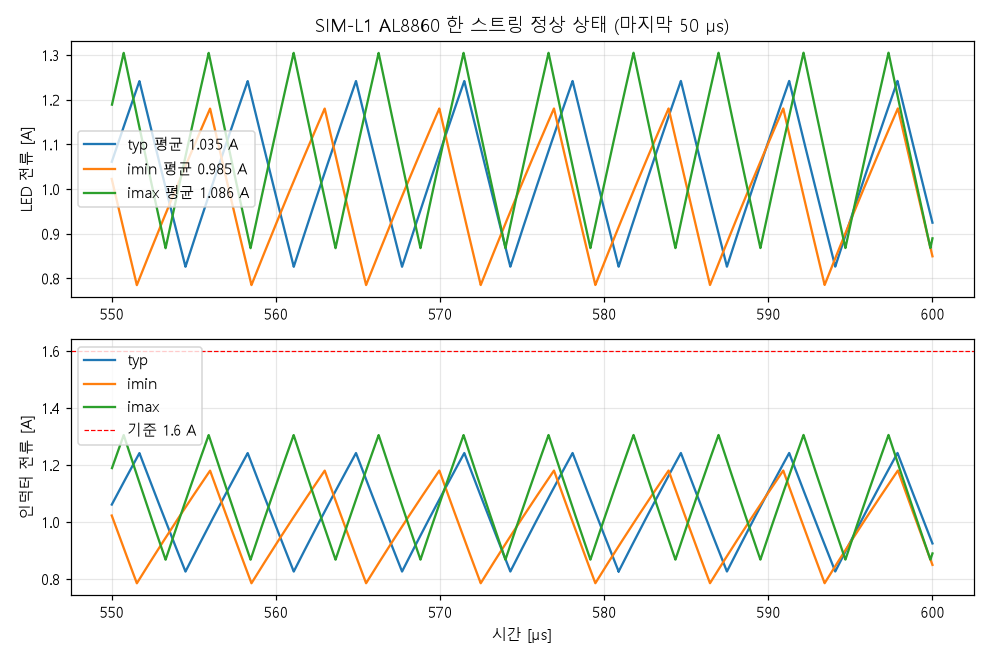
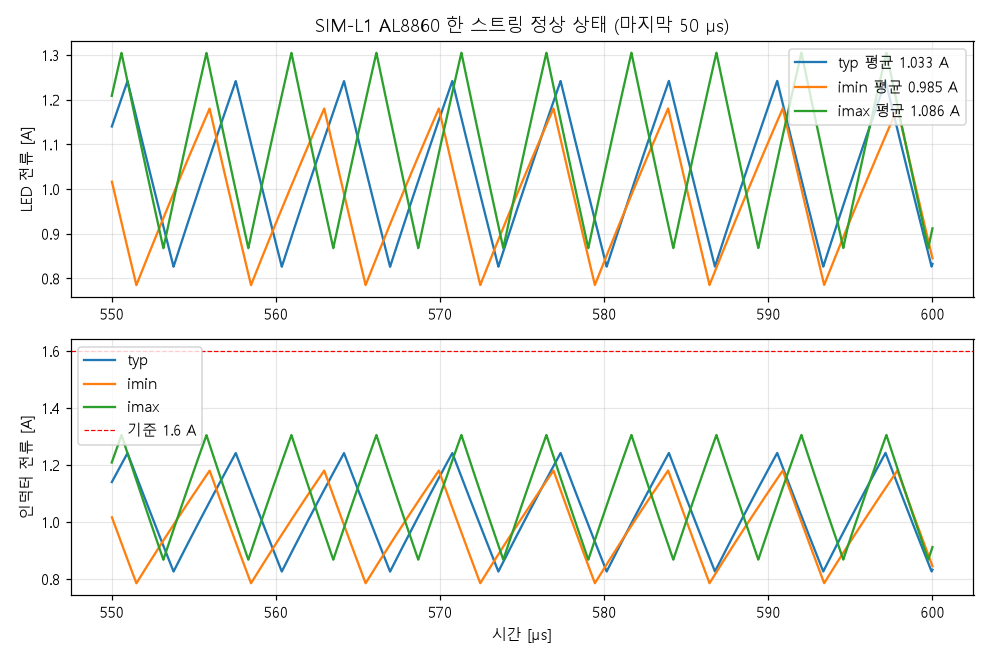
SIM-001f C-021(613cf14) 정식 재실행 종료 0: SIM-L1~L10 전부 pass (L3 끔 구간 1.44µA), R22·R23 블리더를 넷리스트 고정 소자로·SIM_IR_BLEEDER 제거

Changed region(s): [[0.0606, 0.0606, 1.0, 0.4545], [0.0909, 0.5152, 1.0, 0.9091]]

diff --git a/hardware/sim/sim001b/run.py b/hardware/sim/sim001b/run.py
@@ -24,9 +24,8 @@ HERE = os.path.dirname(os.path.abspath(__file__))
 SIM = os.path.dirname(HERE)
 REPO = os.path.dirname(os.path.dirname(SIM))
 NG = os.environ.get("NGSPICE", "C:/Users/gh/tools/ngspice/47/Spice64/bin/ngspice_con.exe")
-IR_BLEEDER = os.environ.get("SIM_IR_BLEEDER", "")   # SIM-001e 후보 c1 확인용 — 비우면 회로도 그대로
 CRITERIA_COMMIT = "7cab389"
-SCH_COMMIT = "a2d878c"   # C-020 (S6): 전면 R20 100k·R21 1k·D4 BAT54WS, R5 100k·D5 BAT54WS (+ C-018/C-019: R6 6.04k, R17 4.7k·C19 4.7nF, C20·C21 4.7nF)
+SCH_COMMIT = "613cf14"   # C-021 (O-99): 전면 R22·R23 10k LED 양단 블리더 + C-020 (S6): R20 100k·R21 1k·D4 BAT54WS, R5 100k·D5 BAT54WS (+ C-018/C-019: R6 6.04k, R17 4.7k·C19 4.7nF, C20·C21 4.7nF)
 ILIM = 1.86   # TPS26600 R6 6.04 kΩ: I(OL) 최소 1.86 A (대표 ≈1.99 A, 계약 v1.14 3.1절 L108) — "시험 회로의 ILIM"을 보수적으로 최솟값으로
 ILIM_OLD = 1.49   # 7cab389 작성 때 회로(R6 8.06 kΩ)의 숫자 — 비교로만 적는다
 plt.rcParams["font.family"] = ["Malgun Gothic", "DejaVu Sans"]
@@ -183,6 +182,7 @@ def string(k, rs, L, dcr, ledm):
     return f"""
 R{13 if k == 'A' else 14} v12 set{k} {rs}
 D{k}1 set{k} m{k} {ledm}
+R{22 if k == 'A' else 23} set{k} k{k} 10k
 D{k}2 m{k} k{k} {ledm}
 Vil{k} k{k} li{k} 0
 L{k} li{k} lx{k} {L}
@@ -212,8 +212,6 @@ def ir_body(corner, strings=("A",), ctrl="open"):
     b = f"Vin vs 0 {vin}\nRsrc vs v12 10m\n" + led_model("led", vf1) + SS24
     for k in strings:
         b += al8860(f"al_{k}", vm, 0.3) + string(k, rs, L, 0.24 if corner != "typ" else 0.2, "led")
-        if IR_BLEEDER:   # SIM-001e 확인용(판정용 아님): LED 스트링 양단 블리더 (환경 변수 SIM_IR_BLEEDER, 예 10k)
-            b += f"Rbl{k} set{k} k{k} {IR_BLEEDER}\n"
     if ctrl == "open":
         b += "Rctrl ctrl 0 1g\n"
     else:
@@ -285,7 +283,7 @@ def b1():
     ax[1].axhline(1.6, color="r", ls="--", lw=.8, label="기준 1.6 A"); ax[1].set_ylabel("인덕터 전류 [A]"); ax[1].set_xlabel("시간 [µs]"); ax[1].legend(); ax[1].grid(alpha=.3)
     ax[0].set_title("SIM-L1 AL8860 한 스트링 정상 상태 (마지막 50 µs)")
     fig.tight_layout(); fig.savefig(png, dpi=110); plt.close(fig)
-    return dict(id="SIM-L1", title="AL8860 한 스트링 LED 전류·리플·주파수", refs=["U4", "R13", "L1", "D1", "D_IR_A1", "D_IR_A2", "C14", "C15"],
+    return dict(id="SIM-L1", title="AL8860 한 스트링 LED 전류·리플·주파수", refs=["U4", "R13", "R22", "L1", "D1", "D_IR_A1", "D_IR_A2", "C14", "C15"],
                 checks=checks, png=[png], net="SIM-L1.cir", notes=notes,
                 model=dict(source="데이터시트 동작 모델 (AL8860 히스테리시스·소프트스타트·CTRL, VSMA·SS24 다이오드 맞춤)",
                            url="https://www.diodes.com/assets/Datasheets/AL8860.pdf", license="—", behavioral=True,
@@ -318,7 +316,7 @@ def b2():
     ax.set_xlabel("시간 [ms]"); ax.set_ylabel("12V_IR 입력 전류 [A]"); ax.legend(); ax.grid(alpha=.3)
     ax.set_title("SIM-L2 스트링 A+B 동시 100 % — 12V_IR 입력 전류 (입력 캡 C14·C16 포함)")
     fig.tight_layout(); fig.savefig(png, dpi=110); plt.close(fig)
-    return dict(id="SIM-L2", title="스트링 A+B 동시 — 12V_IR eFuse 입력 전류 합", refs=["U4", "U5", "R13", "R14", "L1", "L2", "C14", "C16", "U2·R6 6.04k(carrier TPS26600)"],
+    return dict(id="SIM-L2", title="스트링 A+B 동시 — 12V_IR eFuse 입력 전류 합", refs=["U4", "U5", "R13", "R14", "R22", "R23", "L1", "L2", "C14", "C16", "U2·R6 6.04k(carrier TPS26600)"],
                 checks=checks, png=[png], net="SIM-L2.cir", notes=notes, out=out,
                 model=b1_model())
 
@@ -370,7 +368,7 @@ def b3(b2res):
         a.grid(alpha=.3)
     ax[0].set_title(f"SIM-L3 PWM 25 % (400 Hz) — 실효 켬 비율 {ratio:.3f}")
     fig.tight_layout(); fig.savefig(png, dpi=110); plt.close(fig)
-    return dict(id="SIM-L3", title="IR PWM 25 % 디밍 (IR_PWM → Q5 → IR_CTRL)", refs=["Q5", "R12", "U4", "U5"], checks=checks, png=[png],
+    return dict(id="SIM-L3", title="IR PWM 25 % 디밍 (IR_PWM → Q5 → IR_CTRL)", refs=["Q5", "R12", "U4", "U5", "R22", "R23"], checks=checks, png=[png],
                 net="SIM-L3.cir", notes=notes, model=b1_model())
 
 

diff --git a/hardware/sim/SIM-001b-results.md b/hardware/sim/SIM-001b-results.md
@@ -134,3 +134,26 @@
   - SIM-001e 진단에서 LED 다이오드 전류를 따로 쟀더니 끈 뒤 수백 µs 동안 **순방향 꼬리**가 있었다(100~200 µs 순방향 평균 0.84 mA/스트링).
   - 원인은 L 47 µH와 접합 용량의 2.84 MHz 공진이고, 감쇠 경로가 저전류 LED뿐인 데 있다.
 - 개선 비교와 결과: `SIM-001e-criteria.md` · `SIM-001e-results.md`.
+
+## SIM-001f — C-021 회로 정식 재실행 (schematic `613cf14`, O-99)
+
+- 레인: `t-20261127-063202-6080`(`start --from` 2cf0 — SIM-001e가 아직 main에 없어서).
+- **회로 반영:** 전면 **R22·R23 10 kΩ 1 %**(`IRA_SET`–`IRA_K`, `IRB_SET`–`IRB_K`, LED 스트링 양단 블리더)를 `run.py`의 스트링 넷리스트에 고정 소자로 넣었다.
+  - 확인용 환경 변수 `SIM_IR_BLEEDER`는 지웠다. 이 변수는 저장소 결과를 덮어쓰는 위험이 있었고, 이제 회로도에 들어갔으므로 필요 없다.
+- 기준은 `7cab389` · `f47e537` 그대로다. eFuse 한계는 R6 6.04 kΩ의 I(OL) 최소 1.86 A다.
+- 실행 결과: **종료 코드 0 — SIM-L1~L10 전부 pass.** JSON은 모두 `schematic_commit: 613cf14`다.
+
+| 시험 | 핵심 수치 |
+|---|---|
+| L1 | LED 평균 0.9846 / 1.0859 A, 피크 1.305 A, f ≤ 214 kHz |
+| L2 | 12V_IR 평균 1.4256 A · 20 µs 창 1.5849 A ≤ 1.86 |
+| **L3** | **끔 구간 \|I\| 1.44 µA ≤ 1 mA** (이전 6.08 mA) · 켬 비율 0.2302 · 켬 순간 1.5851 A |
+| L4 | 코일 0.213~0.287 A, 200 ms, 극성 ±4.68 V |
+| L5 | 켜짐 23.5 µs · 돌입 0.242 A · 꺼짐 47.2 µs |
+| L6 | 센서로 5.9 pA · SDA 0.164 V · CAM_1V8 0.132 V |
+| L7 | tr 274 ns ≤ 300 (Fm) |
+| L8 | 리셋 해제가 전원 뒤 0.88 ms |
+| L9 | IOVDD 마지막(1.105 ms) · 리셋 먼저 |
+| L10 | AVDD − IOVDD 180 µs · 돌입 310 mA |
+
+- 참고: `hardware/sim/sim001e/compare.py`는 a2d878c 회로를 기준으로 한 후보 비교 기록이다. run.py에 블리더가 고정 소자로 들어갔으므로, 지금 다시 돌리면 "base"에 이미 블리더가 들어 있다(c1은 이중으로 붙는다). 그래서 다시 돌리지 않고 기록으로 둔다.
